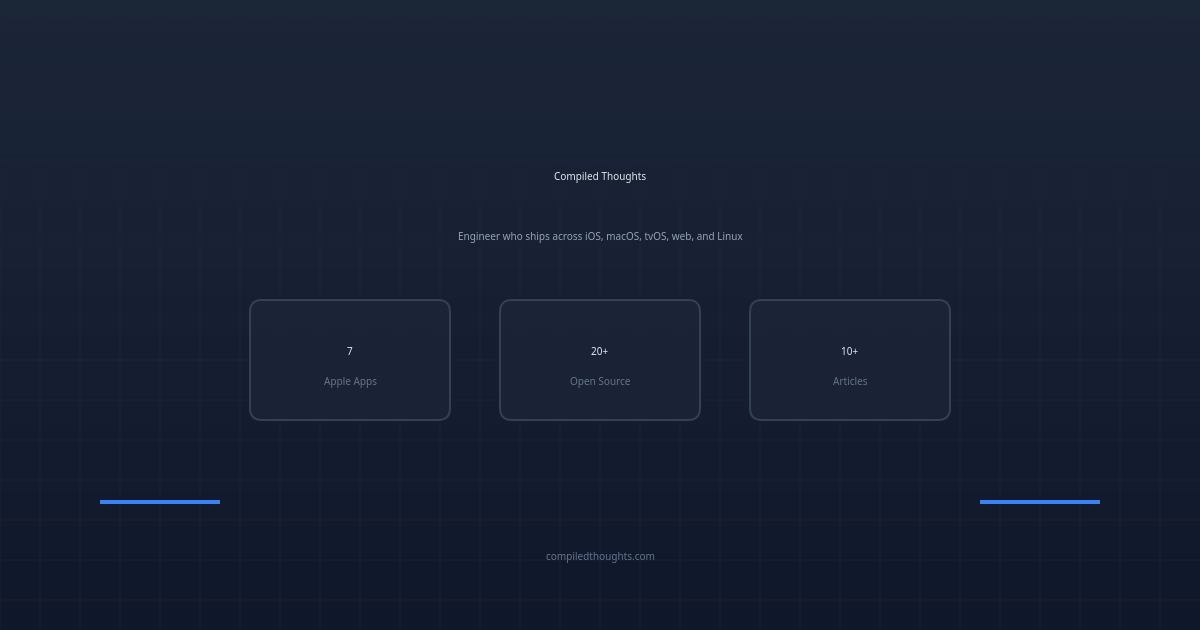
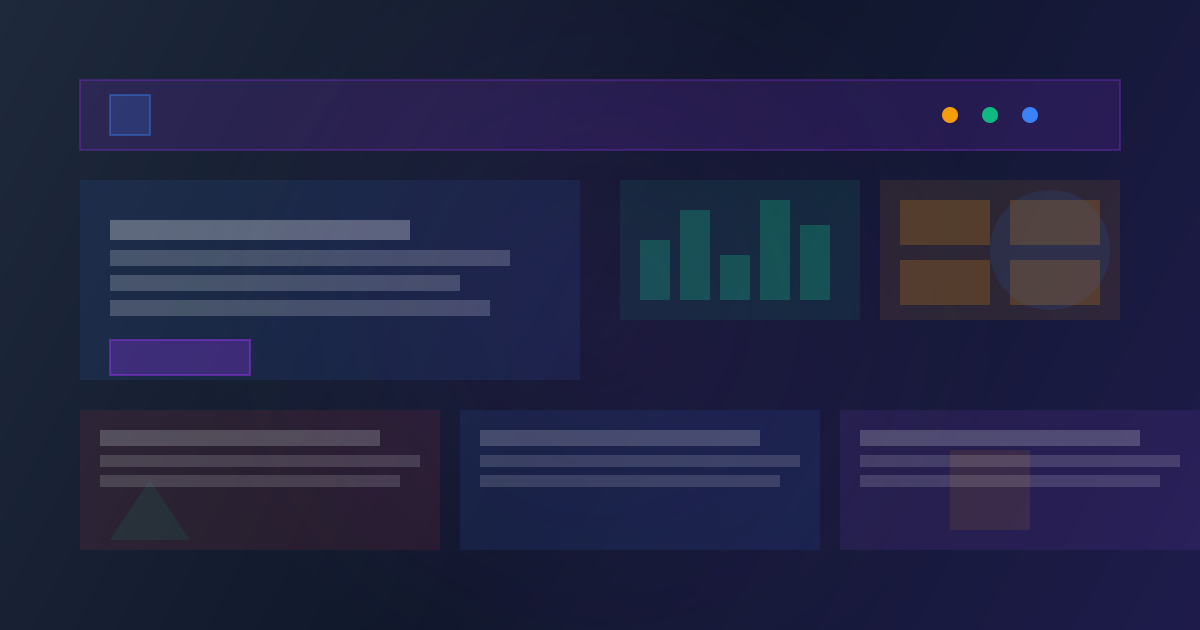
feat: redesign OG image with abstract website layout
Create a more visually appealing and professional OG image that represents
a generic personal website with abstract UI elements. The new design includes:
- Modern gradient background with subtle texture
- Abstract website layout with header, navigation, content sections
- Colorful widgets representing charts, cards, and blog posts
- Decorative geometric shapes for visual interest
- No readable text, just abstract UI representations

This improves the social media preview appearance when sharing the site.

🤖 Generated with [Claude Code](https://claude.ai/code)

diff --git a/scripts/generate-main-og-image.js b/scripts/generate-main-og-image.js
@@ -11,116 +11,141 @@ const height = 630;
 const canvas = createCanvas(width, height);
 const ctx = canvas.getContext('2d');
 
-// Dark background
-ctx.fillStyle = '#0f172a';
+// Modern gradient background
+const bgGradient = ctx.createLinearGradient(0, 0, width, height);
+bgGradient.addColorStop(0, '#1e293b');
+bgGradient.addColorStop(0.5, '#0f172a');
+bgGradient.addColorStop(1, '#1e1b4b');
+ctx.fillStyle = bgGradient;
 ctx.fillRect(0, 0, width, height);
 
-// Add gradient overlay
-const gradient = ctx.createLinearGradient(0, 0, 0, height);
-gradient.addColorStop(0, 'rgba(30, 41, 59, 0.8)');
-gradient.addColorStop(1, 'rgba(15, 23, 42, 1)');
-ctx.fillStyle = gradient;
-ctx.fillRect(0, 0, width, height);
-
-// Draw grid pattern
-ctx.strokeStyle = 'rgba(30, 41, 59, 0.5)';
-ctx.lineWidth = 1;
-for (let x = 0; x < width; x += 40) {
-  ctx.beginPath();
-  ctx.moveTo(x, 0);
-  ctx.lineTo(x, height);
-  ctx.stroke();
-}
-for (let y = 0; y < height; y += 40) {
-  ctx.beginPath();
-  ctx.moveTo(0, y);
-  ctx.lineTo(width, y);
-  ctx.stroke();
+// Add subtle noise/texture overlay
+for (let i = 0; i < 3000; i++) {
+  const x = Math.random() * width;
+  const y = Math.random() * height;
+  ctx.fillStyle = `rgba(255, 255, 255, ${Math.random() * 0.02})`;
+  ctx.fillRect(x, y, 1, 1);
 }
 
-// Main content container
-const containerX = 100;
-const containerY = 100;
-const containerWidth = 1000;
-const containerHeight = 430;
+// Abstract website layout representation
+// Header bar
+ctx.fillStyle = 'rgba(147, 51, 234, 0.15)';
+ctx.fillRect(80, 80, 1040, 70);
+ctx.strokeStyle = 'rgba(147, 51, 234, 0.3)';
+ctx.lineWidth = 2;
+ctx.strokeRect(80, 80, 1040, 70);
 
-// Draw title
-ctx.font = 'bold 72px system-ui, -apple-system, sans-serif';
-ctx.fillStyle = '#e2e8f0';
-ctx.textAlign = 'center';
-ctx.fillText('Compiled Thoughts', width / 2, 180);
+// Navigation dots
+const navColors = ['#f59e0b', '#10b981', '#3b82f6'];
+for (let i = 0; i < 3; i++) {
+  ctx.fillStyle = navColors[i];
+  ctx.beginPath();
+  ctx.arc(950 + i * 40, 115, 8, 0, Math.PI * 2);
+  ctx.fill();
+}
 
-// Draw subtitle
-ctx.font = '32px system-ui, -apple-system, sans-serif';
-ctx.fillStyle = '#94a3b8';
-ctx.fillText('Engineer who ships across iOS, macOS, tvOS, web, and Linux', width / 2, 240);
+// Logo placeholder
+ctx.fillStyle = 'rgba(59, 130, 246, 0.2)';
+ctx.fillRect(110, 95, 40, 40);
+ctx.strokeStyle = 'rgba(59, 130, 246, 0.4)';
+ctx.lineWidth = 2;
+ctx.strokeRect(110, 95, 40, 40);
 
-// Draw stats boxes
-const statsY = 300;
-const statsSpacing = 250;
-const statsStartX = (width - statsSpacing * 2) / 2;
+// Main content area
+// Hero section
+ctx.fillStyle = 'rgba(59, 130, 246, 0.1)';
+ctx.fillRect(80, 180, 500, 200);
 
-// Stats data
-const stats = [
-  { number: '7', label: 'Apple Apps' },
-  { number: '20+', label: 'Open Source' },
-  { number: '10+', label: 'Articles' },
+// Text lines (abstract representation)
+const textLines = [
+  { x: 110, y: 220, width: 300, height: 20, color: 'rgba(248, 250, 252, 0.3)' },
+  { x: 110, y: 250, width: 400, height: 16, color: 'rgba(248, 250, 252, 0.2)' },
+  { x: 110, y: 275, width: 350, height: 16, color: 'rgba(248, 250, 252, 0.2)' },
+  { x: 110, y: 300, width: 380, height: 16, color: 'rgba(248, 250, 252, 0.2)' },
 ];
 
-stats.forEach((stat, index) => {
-  const x = statsStartX + index * statsSpacing;
-
-  // Draw stat box
-  ctx.fillStyle = 'rgba(30, 41, 59, 0.5)';
-  ctx.strokeStyle = '#334155';
-  ctx.lineWidth = 2;
-  const boxWidth = 200;
-  const boxHeight = 120;
-  const boxX = x - boxWidth / 2;
-
-  // Rounded rectangle
-  const radius = 12;
-  ctx.beginPath();
-  ctx.moveTo(boxX + radius, statsY);
-  ctx.lineTo(boxX + boxWidth - radius, statsY);
-  ctx.quadraticCurveTo(boxX + boxWidth, statsY, boxX + boxWidth, statsY + radius);
-  ctx.lineTo(boxX + boxWidth, statsY + boxHeight - radius);
-  ctx.quadraticCurveTo(
-    boxX + boxWidth,
-    statsY + boxHeight,
-    boxX + boxWidth - radius,
-    statsY + boxHeight
-  );
-  ctx.lineTo(boxX + radius, statsY + boxHeight);
-  ctx.quadraticCurveTo(boxX, statsY + boxHeight, boxX, statsY + boxHeight - radius);
-  ctx.lineTo(boxX, statsY + radius);
-  ctx.quadraticCurveTo(boxX, statsY, boxX + radius, statsY);
-  ctx.closePath();
-  ctx.fill();
-  ctx.stroke();
-
-  // Draw number
-  ctx.font = 'bold 48px system-ui, -apple-system, sans-serif';
-  ctx.fillStyle = '#e2e8f0';
-  ctx.textAlign = 'center';
-  ctx.fillText(stat.number, x, statsY + 55);
-
-  // Draw label
-  ctx.font = '20px system-ui, -apple-system, sans-serif';
-  ctx.fillStyle = '#64748b';
-  ctx.fillText(stat.label, x, statsY + 85);
+textLines.forEach((line) => {
+  ctx.fillStyle = line.color;
+  ctx.fillRect(line.x, line.y, line.width, line.height);
 });
 
-// Add decorative elements
-ctx.fillStyle = '#3b82f6';
-ctx.fillRect(100, 500, 120, 4);
-ctx.fillRect(980, 500, 120, 4);
+// CTA button
+ctx.fillStyle = 'rgba(147, 51, 234, 0.3)';
+ctx.fillRect(110, 340, 140, 35);
+ctx.strokeStyle = 'rgba(147, 51, 234, 0.5)';
+ctx.lineWidth = 2;
+ctx.strokeRect(110, 340, 140, 35);
 
-// Add website URL
-ctx.font = '24px system-ui, -apple-system, sans-serif';
-ctx.fillStyle = '#64748b';
-ctx.textAlign = 'center';
-ctx.fillText('compiledthoughts.com', width / 2, 560);
+// Sidebar widgets
+// Widget 1 - Stats/Chart
+ctx.fillStyle = 'rgba(16, 185, 129, 0.1)';
+ctx.fillRect(620, 180, 240, 140);
+
+// Chart bars
+const barHeights = [60, 90, 45, 100, 75];
+barHeights.forEach((height, i) => {
+  ctx.fillStyle = 'rgba(16, 185, 129, 0.3)';
+  ctx.fillRect(640 + i * 40, 300 - height, 30, height);
+});
+
+// Widget 2 - Cards
+ctx.fillStyle = 'rgba(245, 158, 11, 0.1)';
+ctx.fillRect(880, 180, 240, 140);
+
+// Mini cards inside
+for (let i = 0; i < 2; i++) {
+  for (let j = 0; j < 2; j++) {
+    ctx.fillStyle = 'rgba(245, 158, 11, 0.2)';
+    ctx.fillRect(900 + j * 110, 200 + i * 60, 90, 45);
+  }
+}
+
+// Bottom section - Blog/Article cards
+const cardColors = ['rgba(239, 68, 68, 0.1)', 'rgba(59, 130, 246, 0.1)', 'rgba(168, 85, 247, 0.1)'];
+
+for (let i = 0; i < 3; i++) {
+  ctx.fillStyle = cardColors[i];
+  ctx.fillRect(80 + i * 380, 410, 360, 140);
+
+  // Card content lines
+  ctx.fillStyle = 'rgba(248, 250, 252, 0.2)';
+  ctx.fillRect(100 + i * 380, 430, 280, 16);
+
+  ctx.fillStyle = 'rgba(248, 250, 252, 0.15)';
+  ctx.fillRect(100 + i * 380, 455, 320, 12);
+  ctx.fillRect(100 + i * 380, 475, 300, 12);
+}
+
+// Decorative elements
+// Floating shapes
+ctx.globalAlpha = 0.1;
+// Circle
+ctx.fillStyle = '#3b82f6';
+ctx.beginPath();
+ctx.arc(1050, 250, 60, 0, Math.PI * 2);
+ctx.fill();
+
+// Triangle
+ctx.fillStyle = '#10b981';
+ctx.beginPath();
+ctx.moveTo(150, 480);
+ctx.lineTo(190, 540);
+ctx.lineTo(110, 540);
+ctx.closePath();
+ctx.fill();
+
+// Square
+ctx.fillStyle = '#f59e0b';
+ctx.fillRect(950, 450, 80, 80);
+
+ctx.globalAlpha = 1;
+
+// Add subtle glow effects
+const glowGradient = ctx.createRadialGradient(600, 315, 0, 600, 315, 400);
+glowGradient.addColorStop(0, 'rgba(147, 51, 234, 0.1)');
+glowGradient.addColorStop(1, 'rgba(147, 51, 234, 0)');
+ctx.fillStyle = glowGradient;
+ctx.fillRect(0, 0, width, height);
 
 // Save the image
 const outputPath = path.join(__dirname, '..', 'public', 'og-image.png');

diff --git a/src/styles/global.css b/src/styles/global.css
@@ -83,7 +83,7 @@
   .dark {
     @apply text-white;
   }
-  
+
   /* Override prose-invert colors for better contrast */
   .dark .prose-invert {
     --tw-prose-invert-body: #ffffff;
@@ -92,14 +92,14 @@
     --tw-prose-invert-td-borders: #4b5563;
     --tw-prose-invert-th-borders: #6b7280;
   }
-  
+
   /* Force white text in dark mode prose */
   .dark .prose-invert p,
   .dark .prose-invert li,
   .dark .prose-invert td {
     color: #ffffff;
   }
-  
+
   .dark .prose-invert strong,
   .dark .prose-invert b {
     color: #ffffff;
